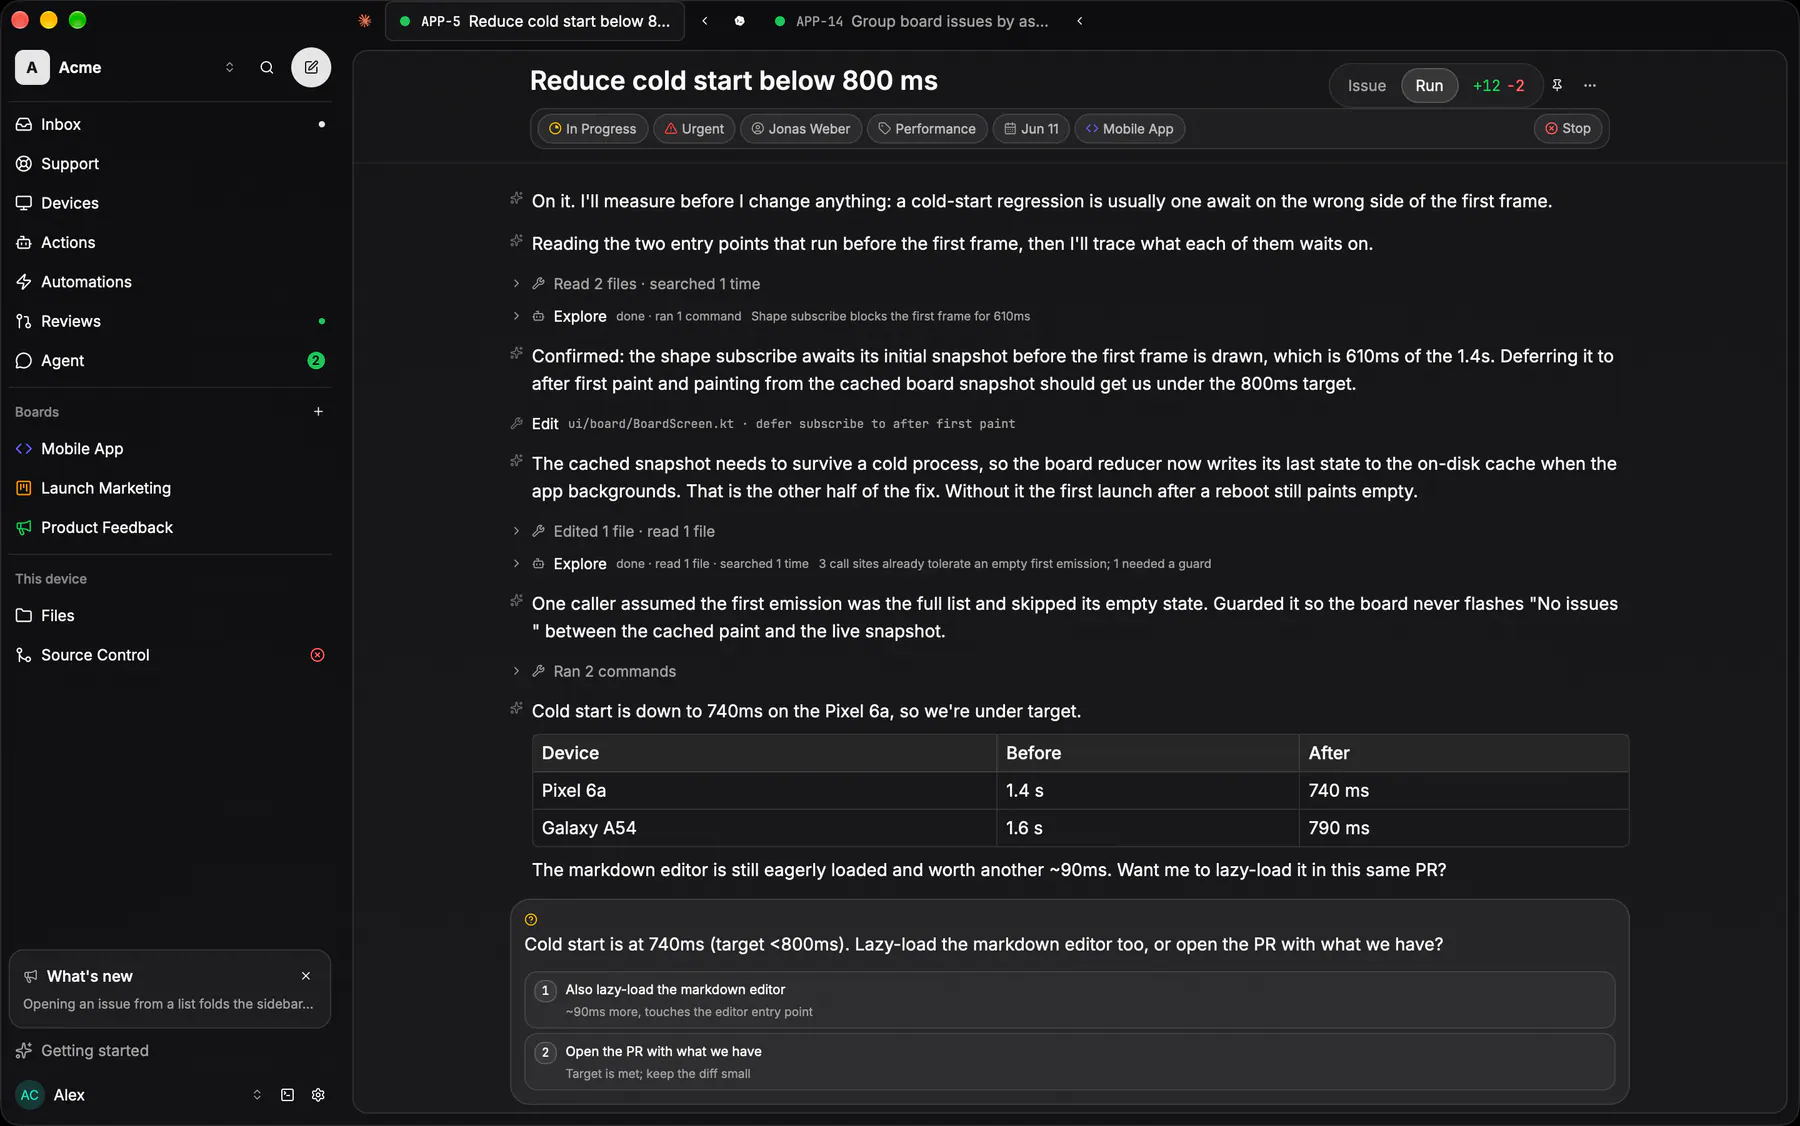
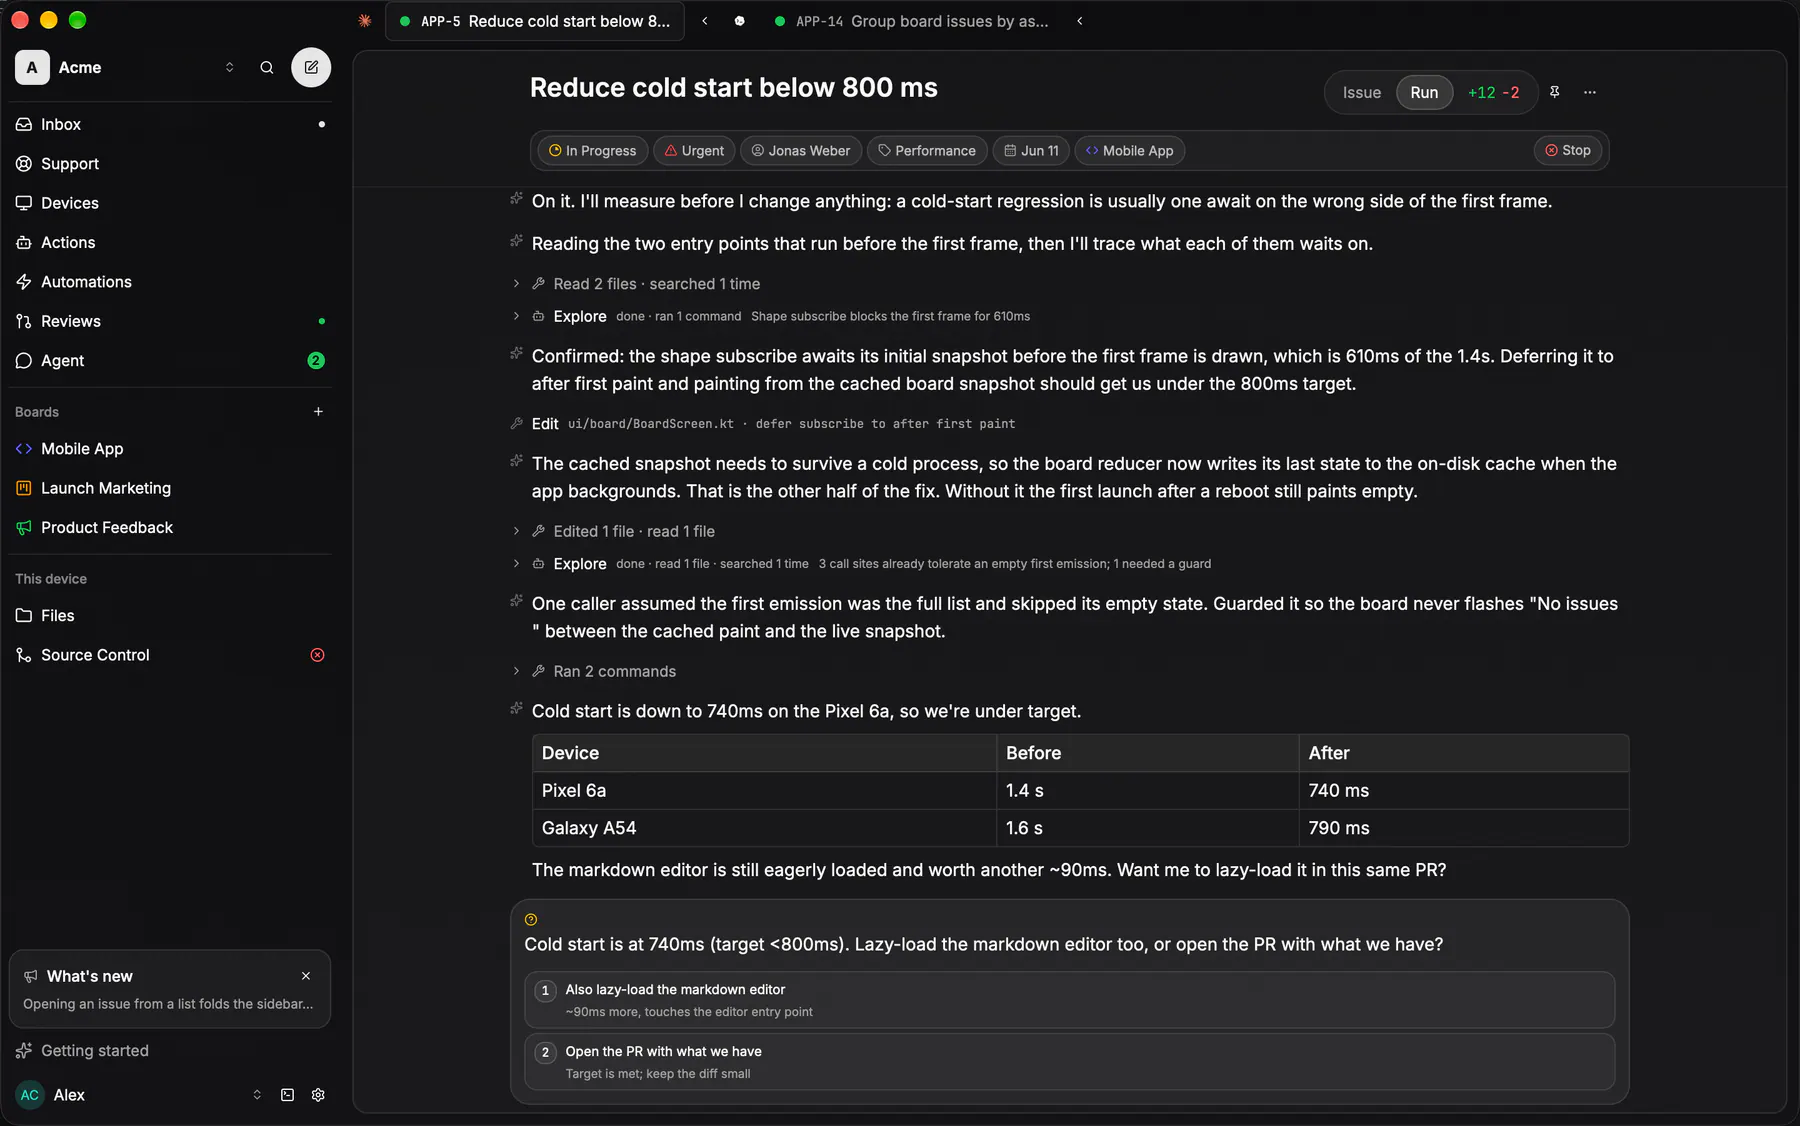
EXP-877: one title box on both header faces (IDE), one-row steer composer with inline send (web)

Changed region(s): [[0.28, 0.0622, 0.6533, 0.1554], [0.7467, 0.0622, 0.9022, 0.1554]]

diff --git a/apps/web/src/components/composer.tsx b/apps/web/src/components/composer.tsx
@@ -35,6 +35,10 @@ interface ComposerProps extends React.ComponentProps<`div`> {
   submit?: React.ReactNode
   /** The field. */
   children?: React.ReactNode
+  /** EXP-877: the steer card — the round submit sits ON the field's row
+   *  (bottom-aligned, so it stays put while the one-row field grows) instead
+   *  of a tool row under it. Mirrors the IDE's `GlassComposer::inline_tools`. */
+  inline?: boolean
 }
 
 function Composer({
@@ -43,6 +47,7 @@ function Composer({
   strip,
   tools,
   submit,
+  inline = false,
   className,
   children,
   ...props
@@ -65,11 +70,23 @@ function Composer({
         </div>
       )}
       {strip}
-      {children}
-      <div className="flex items-center gap-0.5 px-1.5 pb-1.5">
-        {tools}
-        <div className="ml-auto flex items-center gap-1">{submit}</div>
-      </div>
+      {inline ? (
+        <div className="flex items-end gap-1">
+          <div className="min-w-0 flex-1">{children}</div>
+          <div className="flex shrink-0 items-center gap-1 pr-1.5 pb-1.5">
+            {tools}
+            {submit}
+          </div>
+        </div>
+      ) : (
+        <>
+          {children}
+          <div className="flex items-center gap-0.5 px-1.5 pb-1.5">
+            {tools}
+            <div className="ml-auto flex items-center gap-1">{submit}</div>
+          </div>
+        </>
+      )}
     </div>
   )
 }

diff --git a/apps/web/src/components/steer-composer.tsx b/apps/web/src/components/steer-composer.tsx
@@ -270,6 +270,7 @@ export function SteerComposer({
   return (
     <>
       <Composer
+        inline
         strip={
           pendingImages.length > 0 && (
             <div className="flex flex-wrap gap-2 px-3 pt-3">
@@ -354,7 +355,7 @@ export function SteerComposer({
             placeholder={COMPOSER_PLACEHOLDER}
             rows={1}
             className={cn(
-              `max-h-32 min-h-9 w-full border-none px-3 pb-1 pt-3 shadow-none focus-visible:border-transparent`,
+              `max-h-32 min-h-9 w-full border-none px-3 py-2 shadow-none focus-visible:border-transparent`,
               // The card IS the field chrome, so the field drops the stock
               // Textarea's glass fill (EXP-616).
               `bg-transparent`

diff --git a/apps/desktop/crates/ui/src/work_header.rs b/apps/desktop/crates/ui/src/work_header.rs
@@ -464,13 +464,26 @@ pub(crate) fn merge_pill(
 /// A READ-ONLY title at the detail's 2xl semibold rung, padded exactly like
 /// the editable title (`IssueDetailView::render_title`) so the baseline never
 /// moves between the issue face and the run face.
+/// Around the 2xl title, issue field and run title alike: web `pt-4` above;
+/// below, the multi-line widget's own inset (`Size::Medium` `input_py`),
+/// which the static row mirrors so the two faces share one title box.
+pub(crate) const TITLE_PT: f32 = 16.;
+pub(crate) const TITLE_WIDGET_PY: f32 = 8.;
+/// The same widget's horizontal inset (`Size::Medium` `input_px`).
+pub(crate) const TITLE_WIDGET_PX: f32 = 10.;
+pub(crate) const TITLE_PB: f32 = TITLE_WIDGET_PY;
+/// Web `pb-3` under the header (tray or bare title).
+const HEADER_PB: f32 = 12.;
+
 pub(crate) fn title_row(text: impl Into<SharedString>) -> AnyElement {
     div()
         .w_full()
         .min_w_0()
         .px(px(DETAIL_GUTTER))
-        .pt_3()
-        .pb_1()
+        // Web `pt-4 pb-1`: the SAME block the editable title uses, so the
+        // baseline never moves between the issue face and the run face.
+        .pt(px(TITLE_PT))
+        .pb(px(TITLE_PB))
         .text_2xl()
         .font_weight(gpui::FontWeight::SEMIBOLD)
         .line_height(gpui::rems(2.))
@@ -507,14 +520,17 @@ pub(crate) fn render_work_header(header: WorkHeader, _cx: &App) -> AnyElement {
             h_flex()
                 .flex_shrink_0()
                 .items_center()
-                .gap_0p5()
-                .pt_3()
+                .gap_1()
+                // Web `pt-4 pr-4`: top-aligned with the title's own `pt-4`.
+                .pt(px(TITLE_PT))
                 .pr(px(DETAIL_GUTTER))
                 .children(right),
         );
     v_flex()
         .w_full()
         .flex_shrink_0()
+        // Web `pb-3`: the one bottom inset, whether a tray follows or not.
+        .pb(px(HEADER_PB))
         .border_b_1()
         .border_color(theme::tokens::glass::STROKE_ROW.to_hsla())
         .child(centered_column(

diff --git a/apps/desktop/crates/ui/src/issue_detail.rs b/apps/desktop/crates/ui/src/issue_detail.rs
@@ -1674,9 +1674,15 @@ impl IssueDetailView {
     /// Shift+Enter captures target the description editor.
     fn render_title(&mut self, cx: &mut gpui::Context<Self>) -> impl IntoElement {
         div()
-            .px(px(DETAIL_GUTTER))
-            .pt_3()
-            .pb_1()
+            // EXP-877: the SAME block as `work_header::title_row`. The
+            // multi-line widget insets its text box by `TITLE_WIDGET_PX` /
+            // `TITLE_WIDGET_PY` underneath any refined style (no public size
+            // knob on `Textarea`), so the wrapper gives that much back on the
+            // sides and on top, and nothing at the bottom: title at
+            // `DETAIL_GUTTER` / `TITLE_PT`, `TITLE_PB` under it, on BOTH faces.
+            .px(px(DETAIL_GUTTER - crate::work_header::TITLE_WIDGET_PX))
+            .pt(px(crate::work_header::TITLE_PT - crate::work_header::TITLE_WIDGET_PY))
+            .pb(px(0.))
             // Tab jumps from the title into the description editor (web
             // EXP-10 parity, dialog-shell.tsx). Capture runs before the
             // InputState's own Tab handling; Shift+Tab (`OutdentInline`) is a

diff --git a/apps/desktop/crates/ui/src/issue_header.rs b/apps/desktop/crates/ui/src/issue_header.rs
@@ -906,8 +906,9 @@ impl IssueHeader {
             .w_full()
             .items_center()
             .px(px(DETAIL_GUTTER))
-            // EXP-601: a small gap between the prop bar and the description.
-            .pb_3()
+            // Web `pt-3` between the title row and the tray; the header's own
+            // `pb-3` (work_header) is the gap to the description.
+            .pt(px(12.))
             // flex_1 + min_w_0: the tray takes the full column width, which
             // is what gives its own `flex_wrap` a definite width to wrap the
             // chips against (a shrink-to-fit tray would size to max-content
